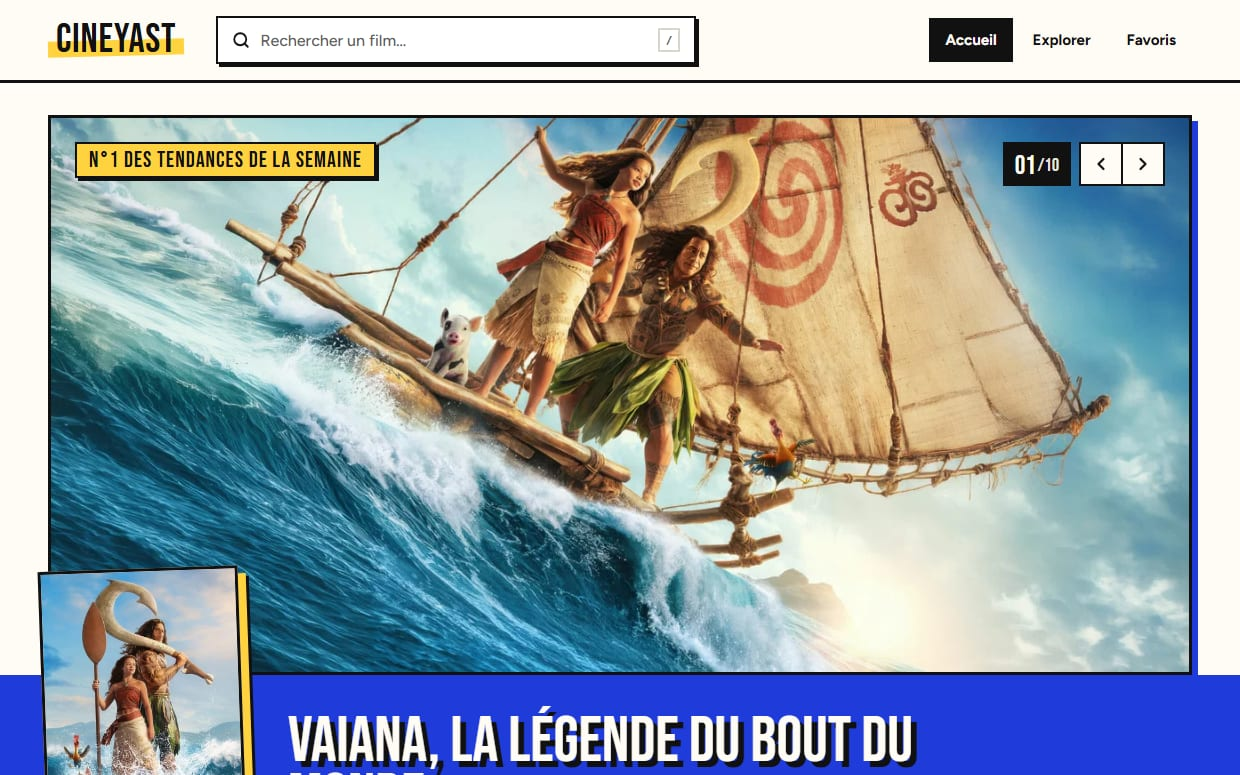
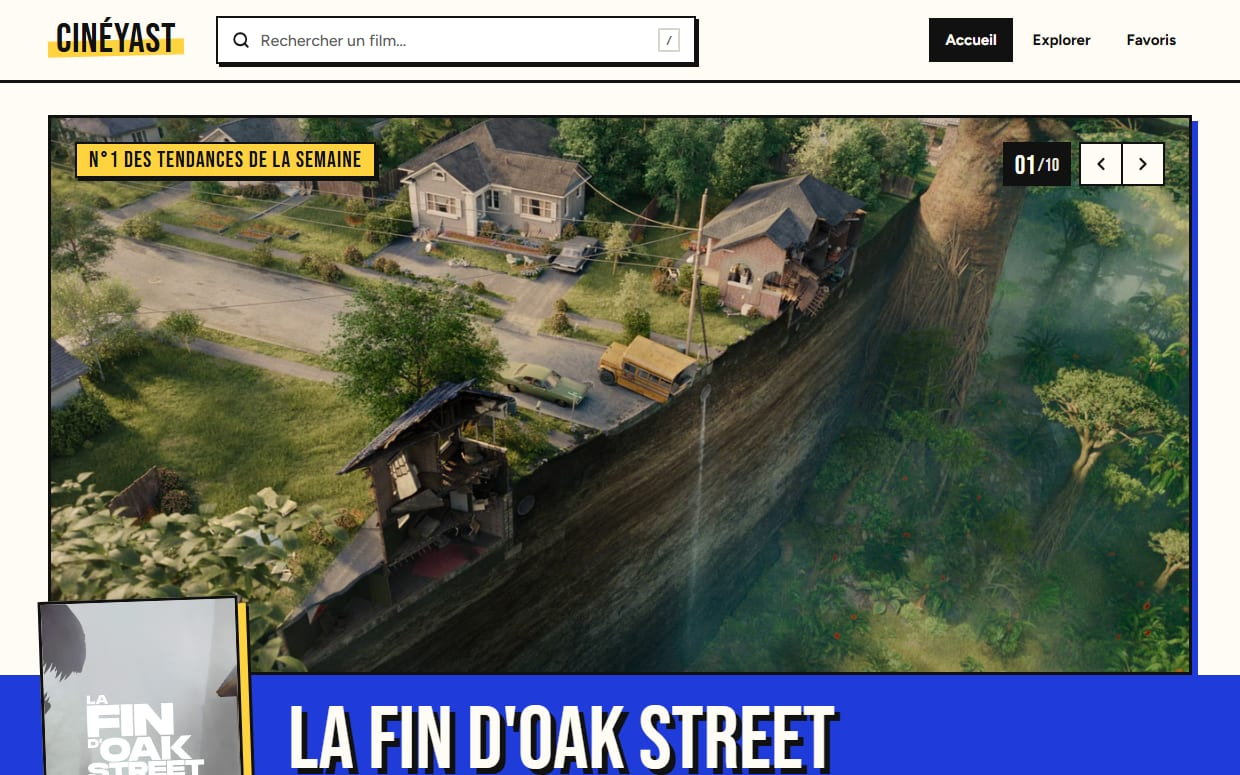
Écrit « Cinéyast » avec l'accent dans l'étude de cas et le pied de page
Le site a adopté l'accent dans son nom affiché (le domaine reste
cineyast.com). Captures de production refaites avec le nouveau logo,
aperçu de partage versionné en apercu-cineyast-3.jpg.

diff --git a/cineyast.html b/cineyast.html
@@ -3,10 +3,10 @@
 <head>
   <meta charset="UTF-8">
   <meta name="viewport" content="width=device-width, initial-scale=1">
-  <title>Cineyast, étude de cas — Yassine Boukamir</title>
-  <meta name="description" content="Cineyast, un site de découverte de films en ligne sur cineyast.com : données réelles, aperçus de partage propres à chaque page, plus de 170 tests automatisés. Ce qui se voit, et ce qui ne se voit pas.">
+  <title>Cinéyast, étude de cas — Yassine Boukamir</title>
+  <meta name="description" content="Cinéyast, un site de découverte de films en ligne sur cineyast.com : données réelles, aperçus de partage propres à chaque page, plus de 170 tests automatisés. Ce qui se voit, et ce qui ne se voit pas.">
 
-  <meta property="og:title" content="Cineyast, étude de cas — Yassine Boukamir">
+  <meta property="og:title" content="Cinéyast, étude de cas — Yassine Boukamir">
   <meta property="og:description" content="Un site de découverte de films, de la demande à la mise en ligne. Ce qui se voit, et ce qui ne se voit pas.">
   <meta property="og:type" content="article">
   <meta property="og:url" content="https://boukamir.be/cineyast.html">
@@ -15,10 +15,10 @@
   <!-- Numéro de version dans le nom, comme apercu-N.jpg sur les autres
        pages : LinkedIn garde l'image traitée (et ses échecs) par URL exacte.
        Incrémenter si l'aperçu est refait. -->
-  <meta property="og:image" content="https://boukamir.be/assets/apercu-cineyast-2.jpg">
+  <meta property="og:image" content="https://boukamir.be/assets/apercu-cineyast-3.jpg">
   <meta property="og:image:width" content="1200">
   <meta property="og:image:height" content="630">
-  <meta property="og:image:alt" content="Cineyast : logo, accroche « Films à découvrir, pour cinéphiles » et genres présentés en plaques de salle">
+  <meta property="og:image:alt" content="Cinéyast : logo, accroche « Films à découvrir, pour cinéphiles » et genres présentés en plaques de salle">
   <meta name="twitter:card" content="summary_large_image">
 
   <link rel="preconnect" href="https://fonts.googleapis.com">
@@ -35,7 +35,7 @@
        choix de Yassine du 13/09, pour ne toucher à aucun écran de la
        maquette. La page sert surtout en lien direct (LinkedIn, devis).
        Tout ce qui est affirmé ici a été vérifié sur le site en ligne et dans
-       son dépôt le 13/09/2026. Si Cineyast change, relire la page. -->
+       son dépôt le 13/09/2026. Si Cinéyast change, relire la page. -->
   <a class="lien-evitement" href="#main">Aller au contenu</a>
 
   <!-- En-tête : pas de bouton orange ici. L'orange est réservé au bouton principal de la page. -->
@@ -58,7 +58,7 @@
       <div class="container grid grid--split-even">
         <div class="hero">
           <span class="label">Étude de cas · projet personnel</span>
-          <h1 class="display display--md hero__title" id="hero-title">Cineyast.</h1>
+          <h1 class="display display--md hero__title" id="hero-title">Cinéyast.</h1>
           <p class="lead hero__lead">Un site pour trouver quoi regarder ce soir : les films du moment, une recherche, une fiche par film et par acteur, et où voir chaque film en France.</p>
           <div class="btn-row">
             <a class="btn btn--primary" href="https://cineyast.com" target="_blank" rel="noopener">Voir le site<span class="sr-only"> (nouvel onglet)</span></a>
@@ -73,7 +73,7 @@
              srcset="assets/projets/cineyast-accueil.jpg 620w, assets/projets/cineyast-accueil@2x.jpg 1240w"
              sizes="(max-width: 900px) calc(100vw - 2 * var(--gutter)), 548px"
              width="1240" height="775"
-             alt="Page d'accueil de Cineyast : le film n°1 des tendances de la semaine en grand, au-dessus d'un bandeau bleu qui porte son titre"
+             alt="Page d'accueil de Cinéyast : le film n°1 des tendances de la semaine en grand, au-dessus d'un bandeau bleu qui porte son titre"
              fetchpriority="high" decoding="async">
       </div>
     </section>
@@ -207,14 +207,14 @@
           <div>
             <!-- Réécrit à la demande de Yassine le 13/09 : la limite reste dite,
                  mais tournée vers ce qui compte pour un commerce. Vrai des deux
-                 côtés : Cineyast se construit dans le navigateur, boukamir.be
+                 côtés : Cinéyast se construit dans le navigateur, boukamir.be
                  et les sites WordPress arrivent déjà prêts du serveur. -->
             <h3>L'affichage sur téléphone</h3>
-            <p class="muted">Cineyast est une application qui se construit dans le navigateur, et sur téléphone ça se sent au premier chargement. Pour un site de commerce, je fais l'inverse : des pages prêtes à l'avance, qui s'affichent tout de suite.</p>
+            <p class="muted">Cinéyast est une application qui se construit dans le navigateur, et sur téléphone ça se sent au premier chargement. Pour un site de commerce, je fais l'inverse : des pages prêtes à l'avance, qui s'affichent tout de suite.</p>
           </div>
           <div>
             <h3>Fait avec un assistant IA</h3>
-            <p class="muted">Cineyast a été développé avec Claude Code, un assistant de programmation, sous ma direction. Chaque point de cette page a été vérifié sur le site en ligne.</p>
+            <p class="muted">Cinéyast a été développé avec Claude Code, un assistant de programmation, sous ma direction. Chaque point de cette page a été vérifié sur le site en ligne.</p>
           </div>
           <div>
             <h3>Les outils</h3>
@@ -251,7 +251,7 @@
             <li><a href="a-propos.html">À propos</a></li>
             <li><a href="contact.html">Contact</a></li>
             <li><a href="index.html#audit">Audit gratuit</a></li>
-            <li><a href="cineyast.html">Étude de cas : Cineyast</a></li>
+            <li><a href="cineyast.html">Étude de cas : Cinéyast</a></li>
             <li><a href="dragonballquiz.html">Étude de cas : Dragon Ball Quiz</a></li>
           </ul>
         </div>

diff --git a/a-propos.html b/a-propos.html
@@ -200,7 +200,7 @@
             <li><a href="a-propos.html">À propos</a></li>
             <li><a href="contact.html">Contact</a></li>
             <li><a href="index.html#audit">Audit gratuit</a></li>
-            <li><a href="cineyast.html">Étude de cas : Cineyast</a></li>
+            <li><a href="cineyast.html">Étude de cas : Cinéyast</a></li>
             <li><a href="dragonballquiz.html">Étude de cas : Dragon Ball Quiz</a></li>
           </ul>
         </div>

diff --git a/contact.html b/contact.html
@@ -182,7 +182,7 @@
             <li><a href="a-propos.html">À propos</a></li>
             <li><a href="contact.html">Contact</a></li>
             <li><a href="index.html#audit">Audit gratuit</a></li>
-            <li><a href="cineyast.html">Étude de cas : Cineyast</a></li>
+            <li><a href="cineyast.html">Étude de cas : Cinéyast</a></li>
             <li><a href="dragonballquiz.html">Étude de cas : Dragon Ball Quiz</a></li>
           </ul>
         </div>

diff --git a/dragonballquiz.html b/dragonballquiz.html
@@ -261,7 +261,7 @@
             <li><a href="a-propos.html">À propos</a></li>
             <li><a href="contact.html">Contact</a></li>
             <li><a href="index.html#audit">Audit gratuit</a></li>
-            <li><a href="cineyast.html">Étude de cas : Cineyast</a></li>
+            <li><a href="cineyast.html">Étude de cas : Cinéyast</a></li>
             <li><a href="dragonballquiz.html">Étude de cas : Dragon Ball Quiz</a></li>
           </ul>
         </div>

diff --git a/services.html b/services.html
@@ -303,7 +303,7 @@
             <li><a href="a-propos.html">À propos</a></li>
             <li><a href="contact.html">Contact</a></li>
             <li><a href="index.html#audit">Audit gratuit</a></li>
-            <li><a href="cineyast.html">Étude de cas : Cineyast</a></li>
+            <li><a href="cineyast.html">Étude de cas : Cinéyast</a></li>
             <li><a href="dragonballquiz.html">Étude de cas : Dragon Ball Quiz</a></li>
           </ul>
         </div>

diff --git a/index.html b/index.html
@@ -348,7 +348,7 @@
             <li><a href="a-propos.html">À propos</a></li>
             <li><a href="contact.html">Contact</a></li>
             <li><a href="#audit">Audit gratuit</a></li>
-            <li><a href="cineyast.html">Étude de cas : Cineyast</a></li>
+            <li><a href="cineyast.html">Étude de cas : Cinéyast</a></li>
             <li><a href="dragonballquiz.html">Étude de cas : Dragon Ball Quiz</a></li>
           </ul>
         </div>
